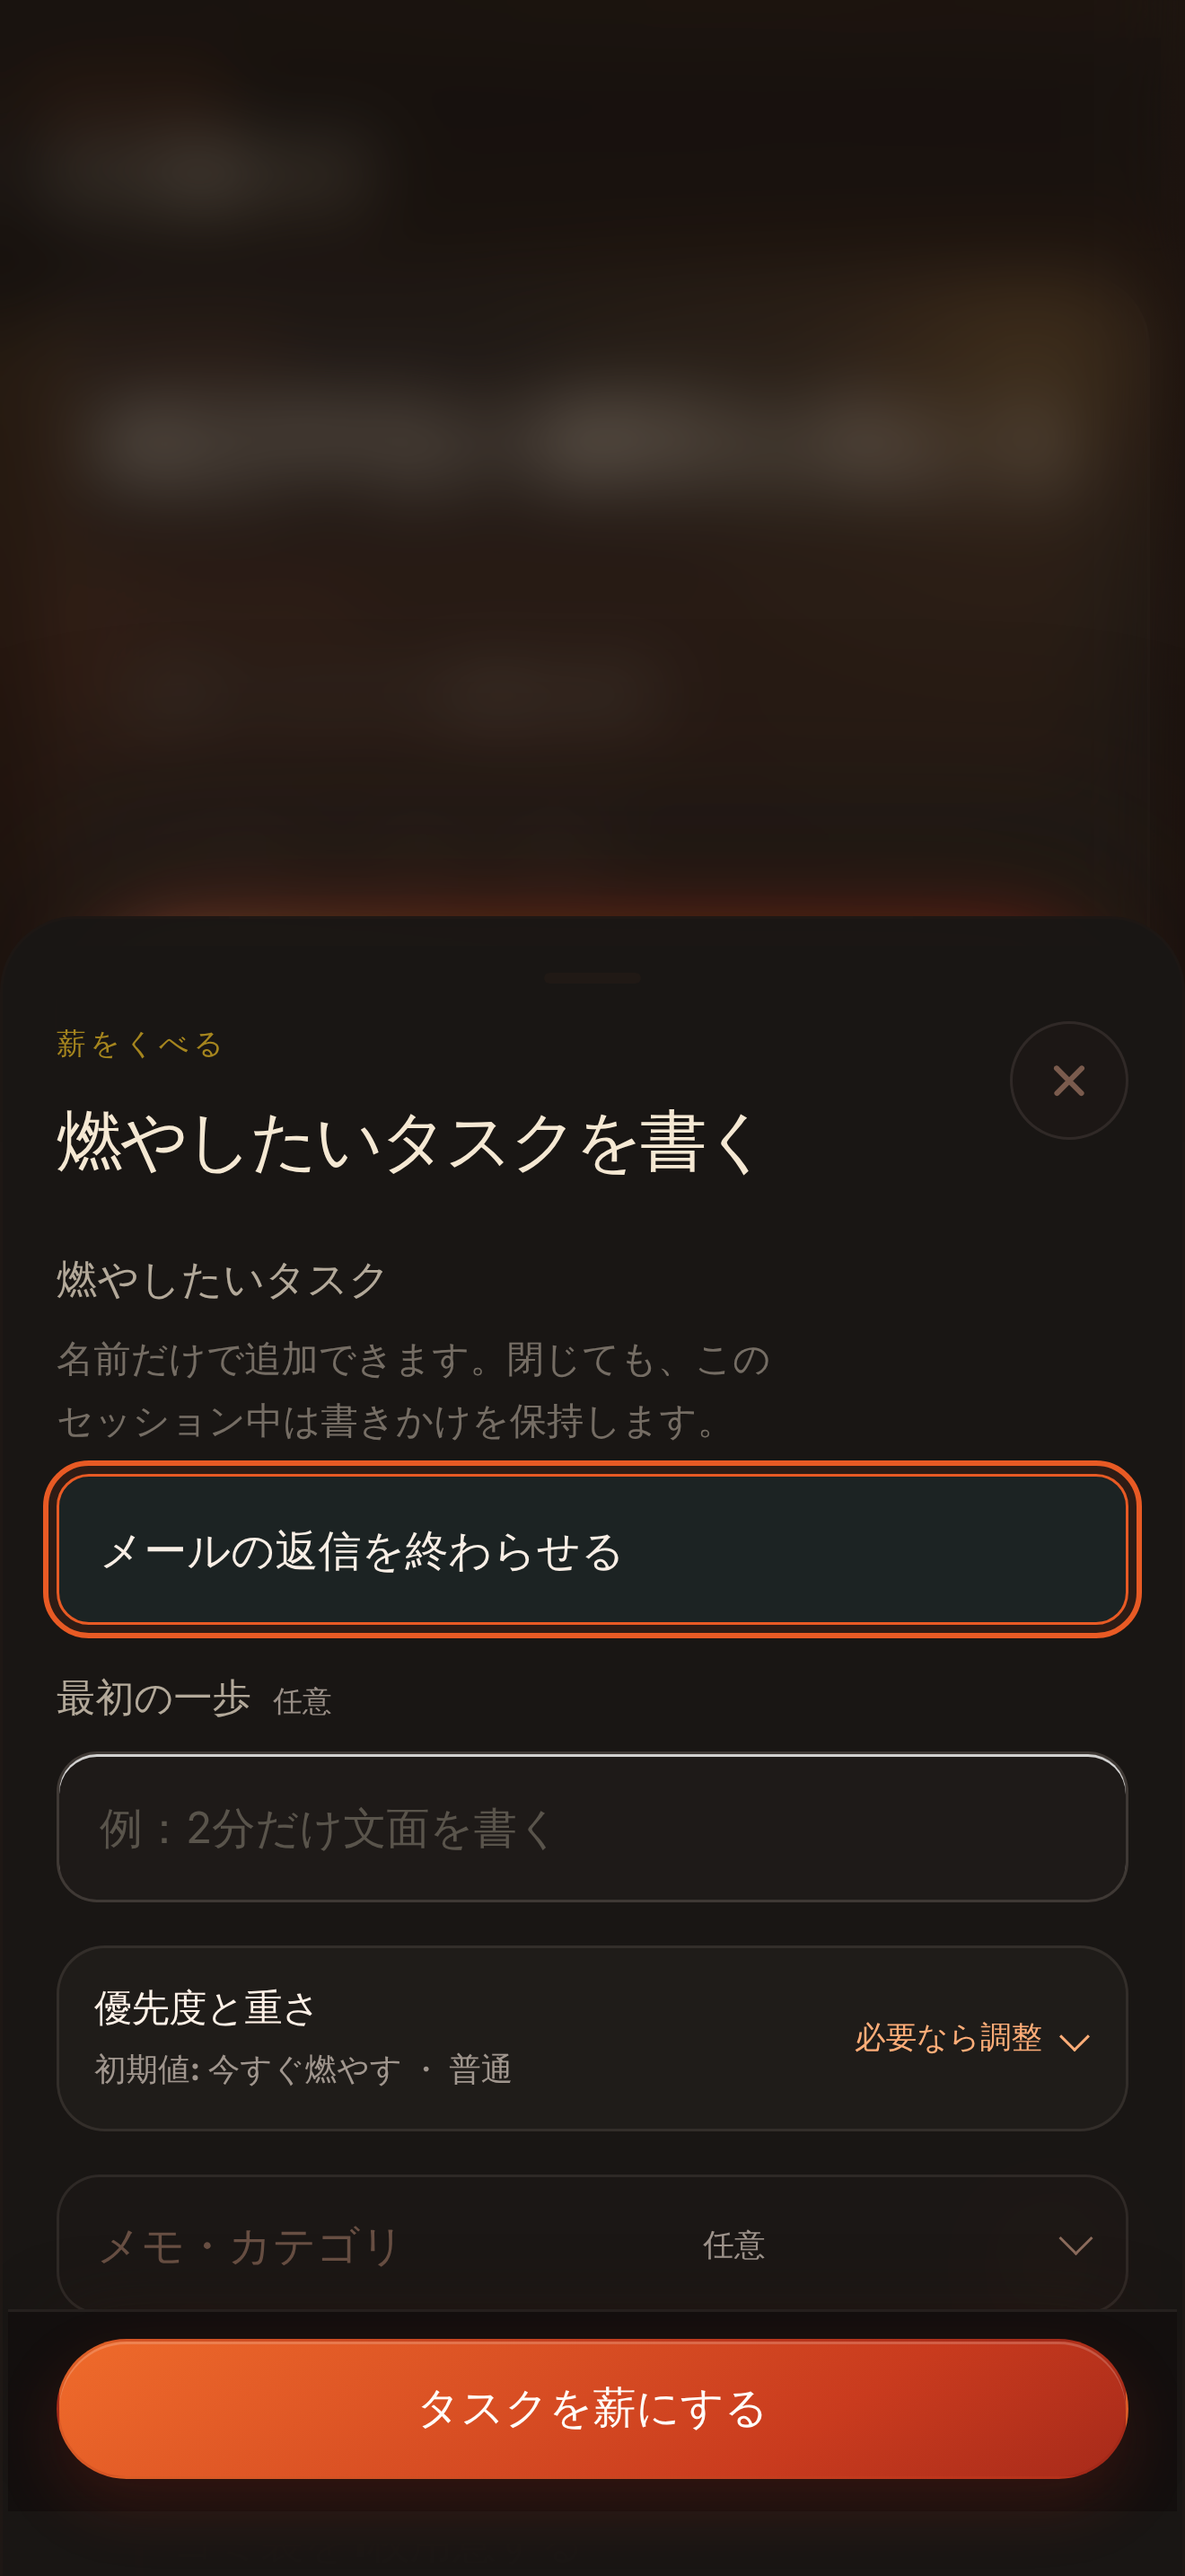
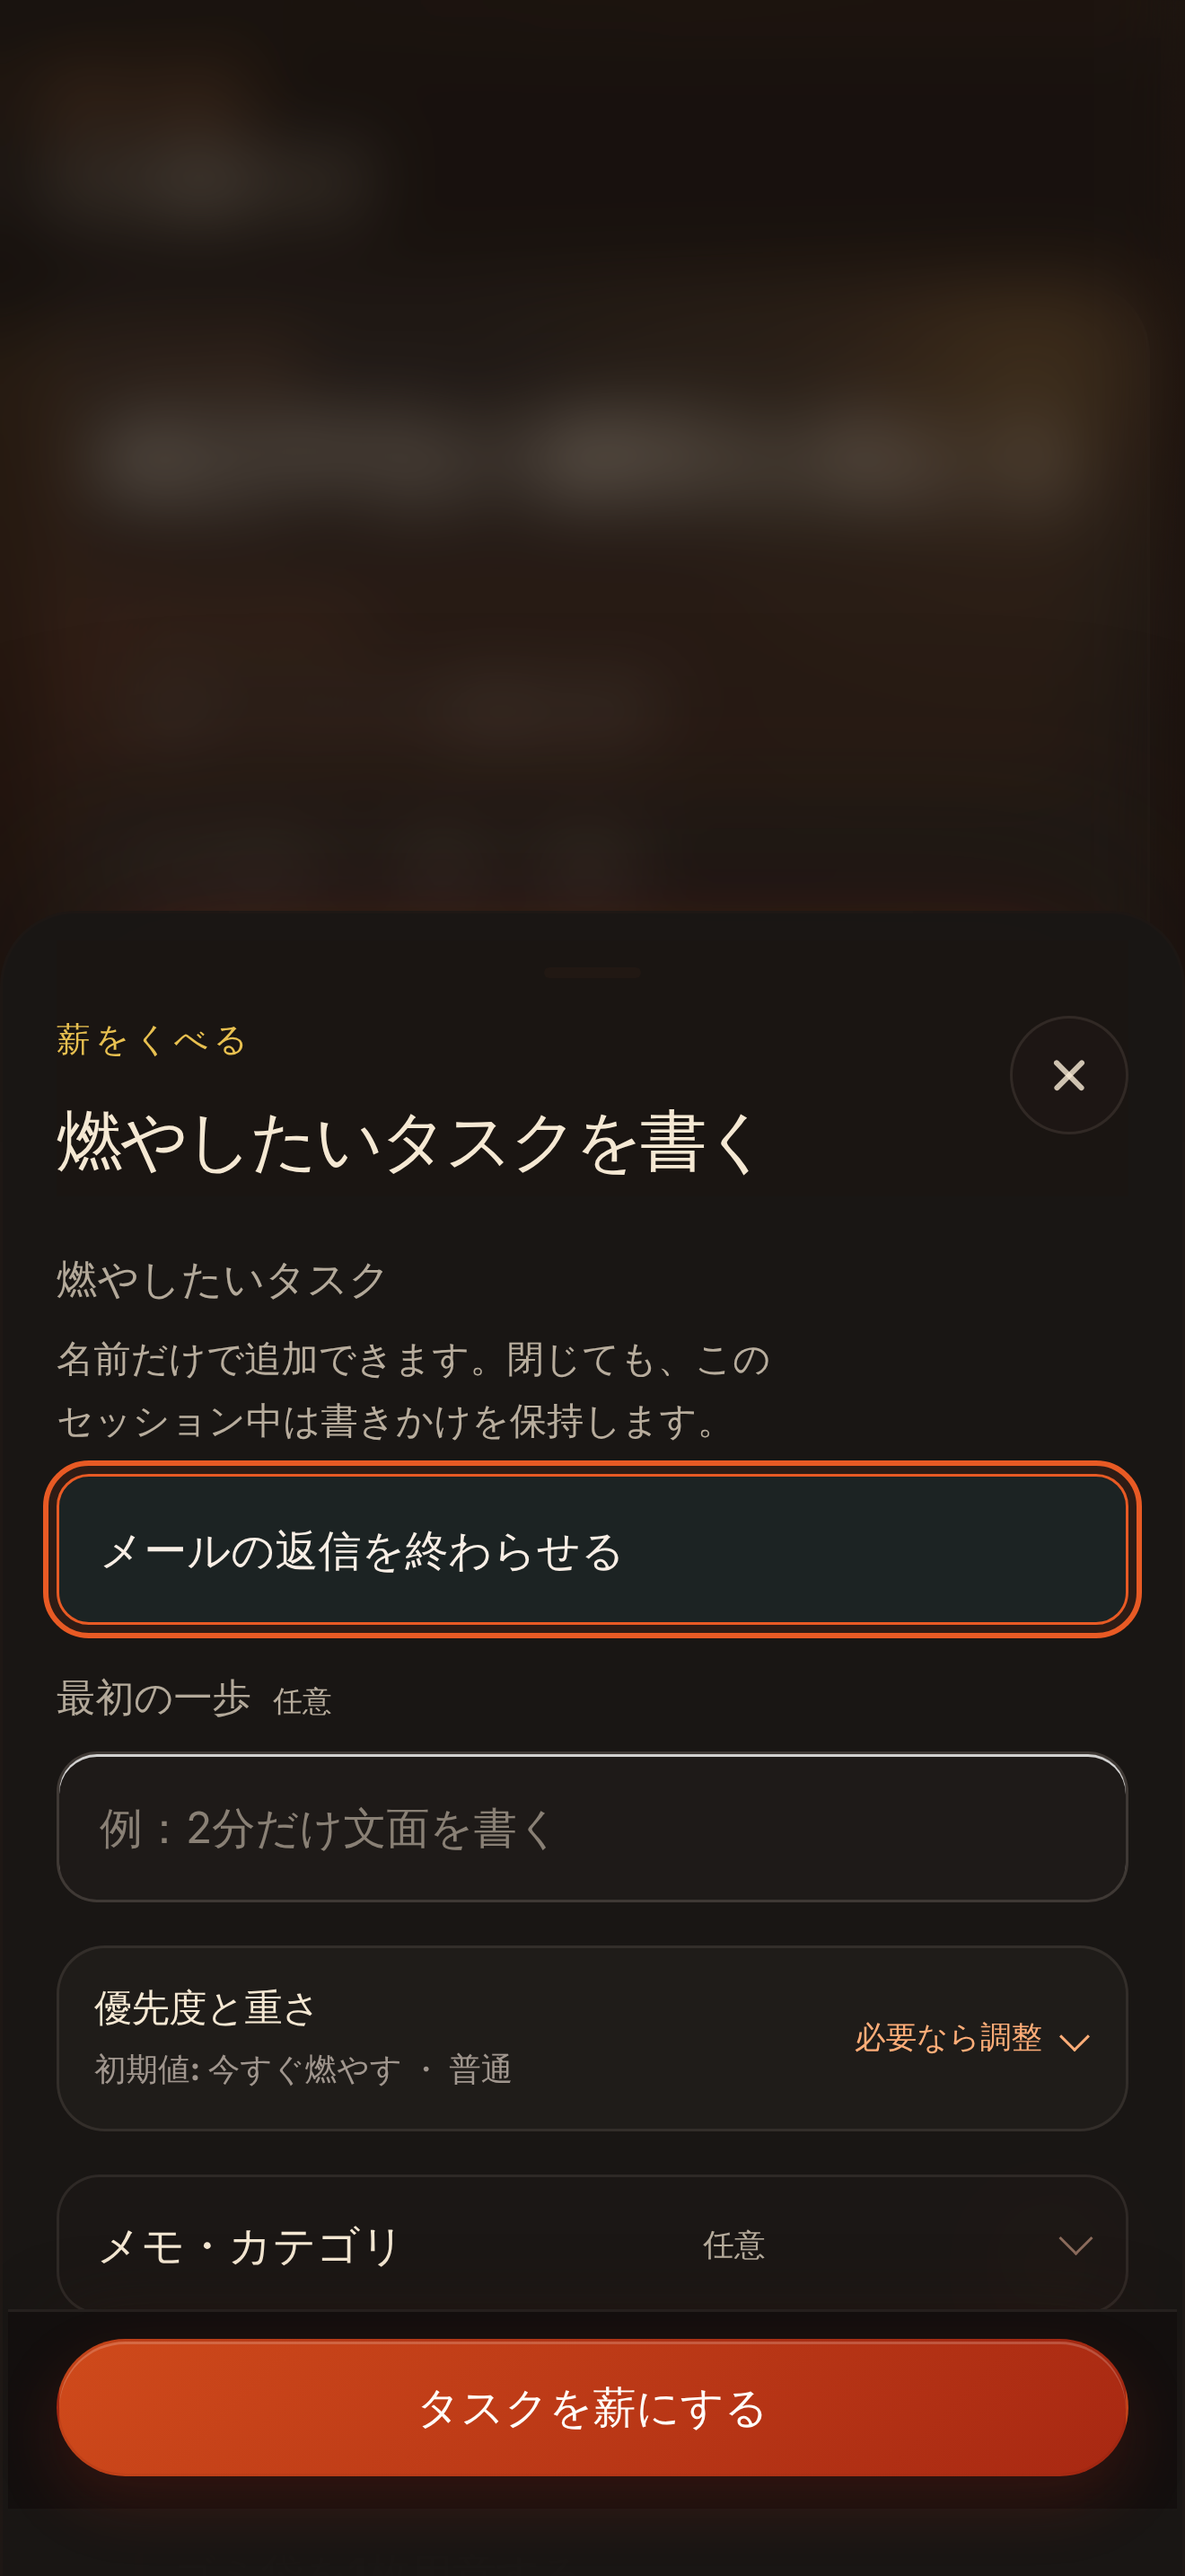
feat: 見やすさの最終調整（コントラスト是正・固定UIの透け防止）
- 全画面の文字コントラストを計測し、AA基準未満だった補足文・チップ・見出しラベル・非選択タブ・プレースホルダー等を是正
- 最小文字サイズを12px以上に引き上げ
- 固定ヘッダー/タブバー/入力シート上部を不透明化し、スクロール内容の透けを解消
- 削除ボタンをダーク配色に統一、Fireボタンの文字コントラストを確保
- 回帰防止テストとApp Storeスクリーンショットを更新

Claude-Session: https://claude.ai/code/session_013JukC2dq313Z82V2p2QeL3

diff --git a/src/readabilityPolish.css b/src/readabilityPolish.css
@@ -1,0 +1,156 @@
+/* ══════════════════════════════════════════════════════════
+   Final readability pass (imported last)
+   - Secondary text meets WCAG AA (4.5:1) on the dark canvas
+   - Smallest text is 12px; chips / hints are 13px
+   - Pinned header no longer lets scrolled content show through
+   - Delete buttons use the dark surface instead of the legacy light one
+   ══════════════════════════════════════════════════════════ */
+
+:root {
+  --readable-text: #f5e8d3;
+  --readable-text-soft: rgba(245, 232, 211, 0.82);
+  --readable-text-muted: rgba(245, 232, 211, 0.72);
+  --readable-accent: #f39a5c;
+  --readable-gold: #e8c050;
+  --color-text-muted: rgba(245, 232, 211, 0.72);
+}
+
+/* Labels, eyebrows and kickers: lighter ember instead of the dark rust */
+body .app-kicker,
+body .eyebrow {
+  color: var(--readable-accent);
+  font-size: 0.78rem;
+}
+
+body .ash-legacy-total-label,
+body .ash-mosaic-label,
+body .campfire-next-hint {
+  color: rgba(232, 192, 80, 0.88);
+  font-size: 0.78rem;
+}
+
+body .ash-legacy .eyebrow,
+body .ash-records-heading .eyebrow {
+  color: var(--readable-gold);
+}
+
+/* Secondary descriptions */
+body .form-helper,
+body .task-tuning-default-note,
+body .choice-button small,
+body .choice-section legend small,
+body .optional-label,
+body .field-meta,
+body .card-footer time,
+body .card-footer small {
+  color: var(--readable-text-muted);
+}
+
+body .choice-button small {
+  font-size: 0.78rem;
+}
+
+body input::placeholder,
+body textarea::placeholder {
+  color: rgba(245, 232, 211, 0.5);
+}
+
+/* Bottom tabs: inactive tabs were ~2.4:1 */
+body .tab-button {
+  font-size: 0.76rem;
+}
+
+body .tab-button:not(.is-active) {
+  color: var(--readable-text-muted);
+  opacity: 1;
+}
+
+body .tab-button.is-active {
+  color: #ffc08f;
+}
+
+/* Meta chips on cards (priority / weight / reward) */
+body .card-quick-meta > *,
+body .focus-seed .focus-meta > *,
+body .focus-seed .focus-chips > * {
+  color: var(--readable-text-soft);
+  font-size: 0.82rem;
+}
+
+body .focus-next-action span,
+body .next-action span {
+  color: var(--readable-accent);
+  font-size: 0.8rem;
+}
+
+/* Optional sections must not look disabled */
+body .advanced-fields-summary,
+body .advanced-fields-summary > span,
+body .task-tuning-summary-copy strong {
+  color: var(--readable-text);
+}
+
+body .advanced-fields-summary > small {
+  color: var(--readable-text-muted);
+}
+
+/* Primary action buttons: white label on a deeper ember (≥4.5:1) */
+body .fire-button,
+body .primary-button {
+  background-image: linear-gradient(135deg, #cf4a1b 0%, #a82812 100%);
+  color: #fffdf9;
+}
+
+body .focus-seed .focus-actions .fire-button {
+  font-weight: 800;
+}
+
+/* Header: keep scrolled cards from showing through the pinned title */
+body .app-topbar {
+  background: rgba(20, 16, 14, 0.94);
+  -webkit-backdrop-filter: blur(16px) saturate(1.2);
+  backdrop-filter: blur(16px) saturate(1.2);
+}
+
+/* Delete button: dark surface, readable icon */
+body .card-delete-button,
+body .card-delete-button.subtle-danger {
+  background: rgba(245, 232, 211, 0.06);
+  border: 1px solid rgba(245, 232, 211, 0.16);
+  color: #ff9d8c;
+}
+
+body .card-delete-button:hover:not(:disabled) {
+  background: rgba(255, 120, 100, 0.14);
+  border-color: rgba(255, 157, 140, 0.45);
+}
+
+body .card-delete-button svg {
+  color: #ff9d8c;
+  stroke: currentColor;
+}
+
+/* Bottom tab bar: opaque enough that scrolled cards don't ghost through the labels */
+body .bottom-tabs {
+  background: rgba(18, 15, 13, 0.95);
+  -webkit-backdrop-filter: blur(18px) saturate(1.2);
+  backdrop-filter: blur(18px) saturate(1.2);
+}
+
+/* Sheet / dialog close button */
+body .sheet-close,
+body .sheet-close::before,
+body .sheet-close::after {
+  color: var(--readable-text-soft);
+}
+
+/* Sheet title band: opaque so the form content never ghosts behind the heading */
+body .sheet-drag-zone {
+  background: #1a1512;
+  position: relative;
+  z-index: 2;
+}
+
+body .sheet-header .eyebrow {
+  color: var(--readable-gold);
+}

diff --git a/src/readabilityPolish.test.ts b/src/readabilityPolish.test.ts
@@ -1,0 +1,31 @@
+import { readFileSync } from 'node:fs';
+import { resolve } from 'node:path';
+import { describe, expect, it } from 'vitest';
+
+describe('final readability pass', () => {
+  const css = readFileSync(resolve(__dirname, 'readabilityPolish.css'), 'utf-8');
+  const main = readFileSync(resolve(__dirname, 'main.tsx'), 'utf-8');
+
+  it('is the last stylesheet imported so it wins the cascade', () => {
+    const imports = main.split('\n').filter((line) => line.startsWith("import './") && line.endsWith(".css';"));
+    expect(imports[imports.length - 1]).toBe("import './readabilityPolish.css';");
+  });
+
+  it('keeps secondary text at AA-friendly alpha and labels no smaller than 12px', () => {
+    const muted = css.match(/--readable-text-muted:\s*rgba\(245, 232, 211, ([\d.]+)\)/);
+    expect(muted).not.toBeNull();
+    expect(Number(muted![1])).toBeGreaterThanOrEqual(0.7);
+    expect(css).toContain('font-size: 0.78rem');
+    expect(css).not.toMatch(/font-size:\s*0\.[0-6]\d*rem/);
+  });
+
+  it('keeps pinned chrome opaque enough that scrolled content does not ghost through', () => {
+    expect(css).toMatch(/\.app-topbar\s*\{[^}]*rgba\(20, 16, 14, 0\.9\d\)/);
+    expect(css).toMatch(/\.bottom-tabs\s*\{[^}]*rgba\(18, 15, 13, 0\.9\d\)/);
+    expect(css).toMatch(/\.sheet-drag-zone\s*\{[^}]*background: #1a1512/);
+  });
+
+  it('does not leave inactive tabs dimmed by opacity', () => {
+    expect(css).toMatch(/\.tab-button:not\(\.is-active\)\s*\{[^}]*opacity: 1/);
+  });
+});

diff --git a/src/main.tsx b/src/main.tsx
@@ -41,6 +41,7 @@ import './accessibilityPolish.css';
 import './dimensionalPolish.css';
 import './tactilePolish.css';
 import './japaneseWrap.css';
+import './readabilityPolish.css';
 
 createRoot(document.getElementById('root')!).render(
   <StrictMode>
